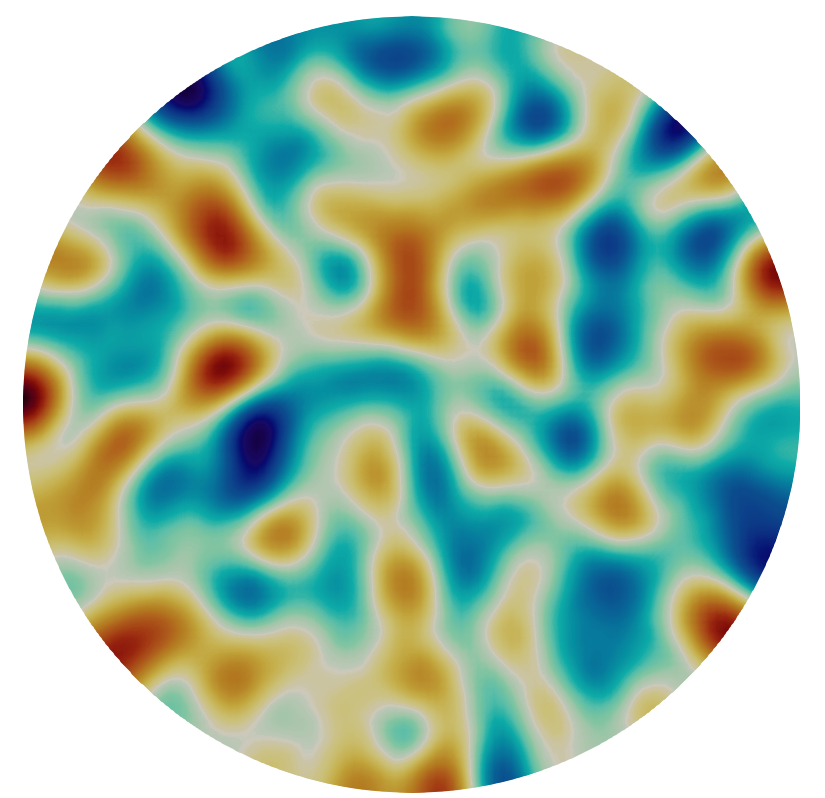
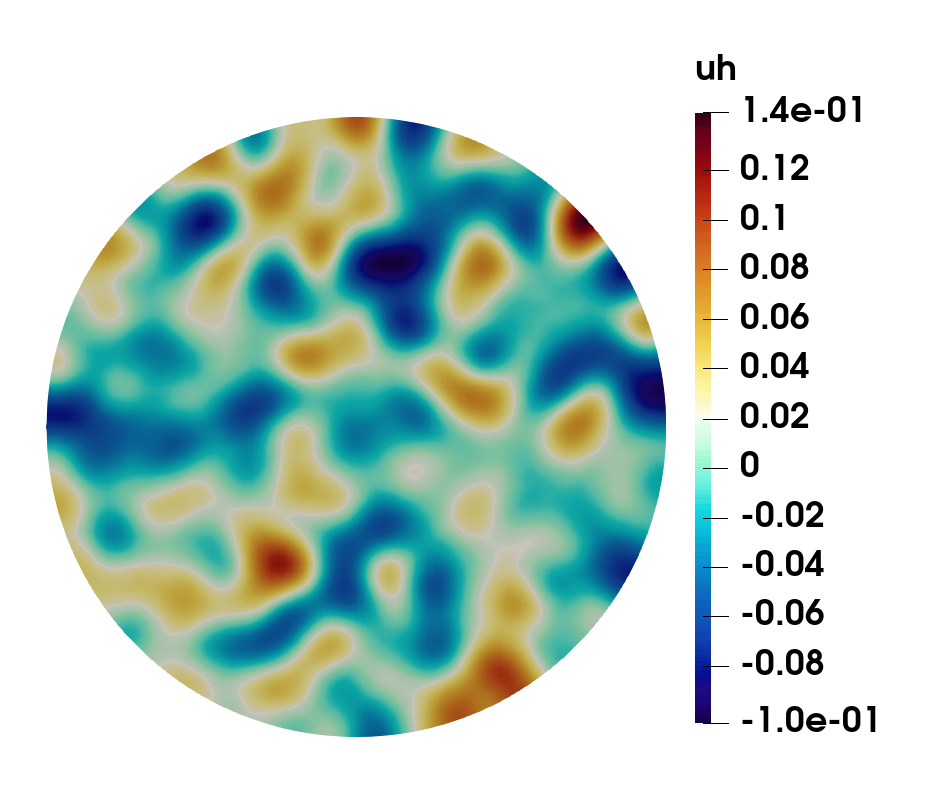
Updated illustrations

diff --git a/master_thesis/latex/cahn-hilliard.tex b/master_thesis/latex/cahn-hilliard.tex
@@ -92,51 +92,76 @@ Let $u_{0} = u( x,0) $, then for the mass conservation do we expect
  \end{equation}
 
 
-\begin{figure}[H]
+\begin{figure}[]
     \centering
+    \newlength\figwidth  % define a new length \figwidth
+    \setlength\figwidth{0.4\textwidth}  % set the value of \figwidth
+    \hfill
     \subfloat[$t=0\tau$]{\label{sub:fig:ill_c0}
-        \includegraphics[width=0.3\textwidth]{results/illustration/c0.png}
+        \includegraphics[width=\figwidth]{results/illustration/c0.png}
     }\hfill
     \subfloat[$t=2\tau$]{\label{sub:fig:ill_c2}
-        \includegraphics[width=0.3\textwidth]{results/illustration/c2.png}
-    }\hfill
-    \subfloat[$t=10\tau$]{\label{sub:fig:ill_c10}
-        \includegraphics[width=0.3\textwidth]{results/illustration/c10.png}
+        \includegraphics[width=\figwidth]{results/illustration/c2.png}
     }
+    \\
     \vspace{10pt}
+    \hfill
+    \subfloat[$t=10\tau$]{\label{sub:fig:ill_c10}
+        \includegraphics[width=\figwidth]{results/illustration/c10.png}
+    }
+    \hfill
     \subfloat[t=50$\tau$]{\label{sub:fig:ill_c50}
-        \includegraphics[width=0.3\textwidth]{results/illustration/c50.png}
-    }\hfill
+        \includegraphics[width=\figwidth]{results/illustration/c50.png}
+    }
+    \\
+    \vspace{10pt}
+    \hfill
     \subfloat[$t=200\tau$]{\label{sub:fig:ill_c200}
-        \includegraphics[width=0.3\textwidth]{results/illustration/c200.png}
+        \includegraphics[width=\figwidth]{results/illustration/c200.png}
     }\hfill
     \subfloat[$t=1000\tau$]{\label{sub:fig:ill_c1000}
-        \includegraphics[width=0.3\textwidth]{results/illustration/c1000.png}
-    } \\
-    \vspace{10pt}
+        \includegraphics[width=\figwidth]{results/illustration/c1000.png}
+    }
+    \caption{Illustration of simulations of the Cahn-Hilliard equation on the circle domain for $t\in \left[ 0, 1000\tau  \right] $.}
+
+\end{figure}
+
+\begin{figure}[]
     \centering
+    \newlength\figwidth  % define a new length \figwidth
+    \setlength\figwidth{0.4\textwidth}  % set the value of \figwidth
+    \hfill
     \subfloat[$t=0\tau$]{\label{sub:fig:ill_f0}
-        \includegraphics[width=0.3\textwidth]{results/illustration/f0.png}
+        \includegraphics[width=\figwidth]{results/illustration/f0.png}
     }\hfill
     \subfloat[$t=2\tau$]{\label{sub:fig:ill_f2}
-        \includegraphics[width=0.3\textwidth]{results/illustration/f2.png}
-    }\hfill
-    \subfloat[$t=10\tau$]{\label{sub:fig:ill_f10}
-        \includegraphics[width=0.3\textwidth]{results/illustration/f10.png}
+        \includegraphics[width=\figwidth]{results/illustration/f2.png}
     }
+    \\
     \vspace{10pt}
-    \subfloat[$t=50\tau$]{\label{sub:fig:ill_f50}
-        \includegraphics[width=0.3\textwidth]{results/illustration/f50.png}
-    }\hfill
+    \hfill
+    \subfloat[$t=10\tau$]{\label{sub:fig:ill_f10}
+        \includegraphics[width=\figwidth]{results/illustration/f10.png}
+    }
+    \hfill
+    \subfloat[t=50$\tau$]{\label{sub:fig:ill_f50}
+        \includegraphics[width=\figwidth]{results/illustration/f50.png}
+    }
+    \\
+    \vspace{10pt}
+    \hfill
     \subfloat[$t=200\tau$]{\label{sub:fig:ill_f200}
-        \includegraphics[width=0.3\textwidth]{results/illustration/f200.png}
+        \includegraphics[width=\figwidth]{results/illustration/f200.png}
     }\hfill
     \subfloat[$t=1000\tau$]{\label{sub:fig:ill_f1000}
-        \includegraphics[width=0.3\textwidth]{results/illustration/f1000.png}
+        \includegraphics[width=\figwidth]{results/illustration/f1000.png}
     }
-    \caption{Illustration of simulations of the Cahn-Hilliard equation on the circle and a flower domain for $t\in \left[ 0, 1000\tau  \right] $.}
-    \label{sub:fig:ill_circle_flower}
+    \caption{Illustration of simulations of the Cahn-Hilliard equation on the flower domain for $t\in \left[ 0, 1000\tau  \right] $.}
+
 \end{figure}
+
+
+
 
 
 In our experiments, we defined the initial function $u_{0}(x)$ as the uniform samples from the interval $[-1, 1]$ for each node. That is, for each node $a_{i}$, $u_{0}(a_{i})$ is a sample from the uniform distribution on the interval $[-1, 1]$. This

diff --git a/master_thesis/latex/main.tex b/master_thesis/latex/main.tex
@@ -27,6 +27,7 @@
         \Large
         Solving Cahn-Hilliard equation using a cut finite element method   \\
 
+
         \vspace{1.5cm}
 
         \textbf{Isak Hammer} \\
@@ -40,7 +41,18 @@
 
         \vspace{0.8cm}
 
-        % \includegraphics[width=0.5\textwidth]{figures/front_page/molly.jpeg}\\
+        \begin{figure}[H]
+            \centering
+            \includegraphics[width=0.3\textwidth]{results/illustration/w0.png}
+            \includegraphics[width=0.3\textwidth]{results/illustration/w2.png}
+            \includegraphics[width=0.3\textwidth]{results/illustration/w10.png}
+            \vspace{10pt}
+            \includegraphics[width=0.3\textwidth]{results/illustration/w50.png}
+            \includegraphics[width=0.3\textwidth]{results/illustration/w200.png}
+            \includegraphics[width=0.3\textwidth]{results/illustration/w1000.png}
+            % \caption{Illustration of simulations of the Cahn-Hilliard equation on the circle and a flower domain for $t\in \left[ 0, 1000\tau  \right] $.}
+            % \label{sub:fig:ill_circle_flower}
+        \end{figure}
 
         \Large
         Department of Mathematical Sciences\\
